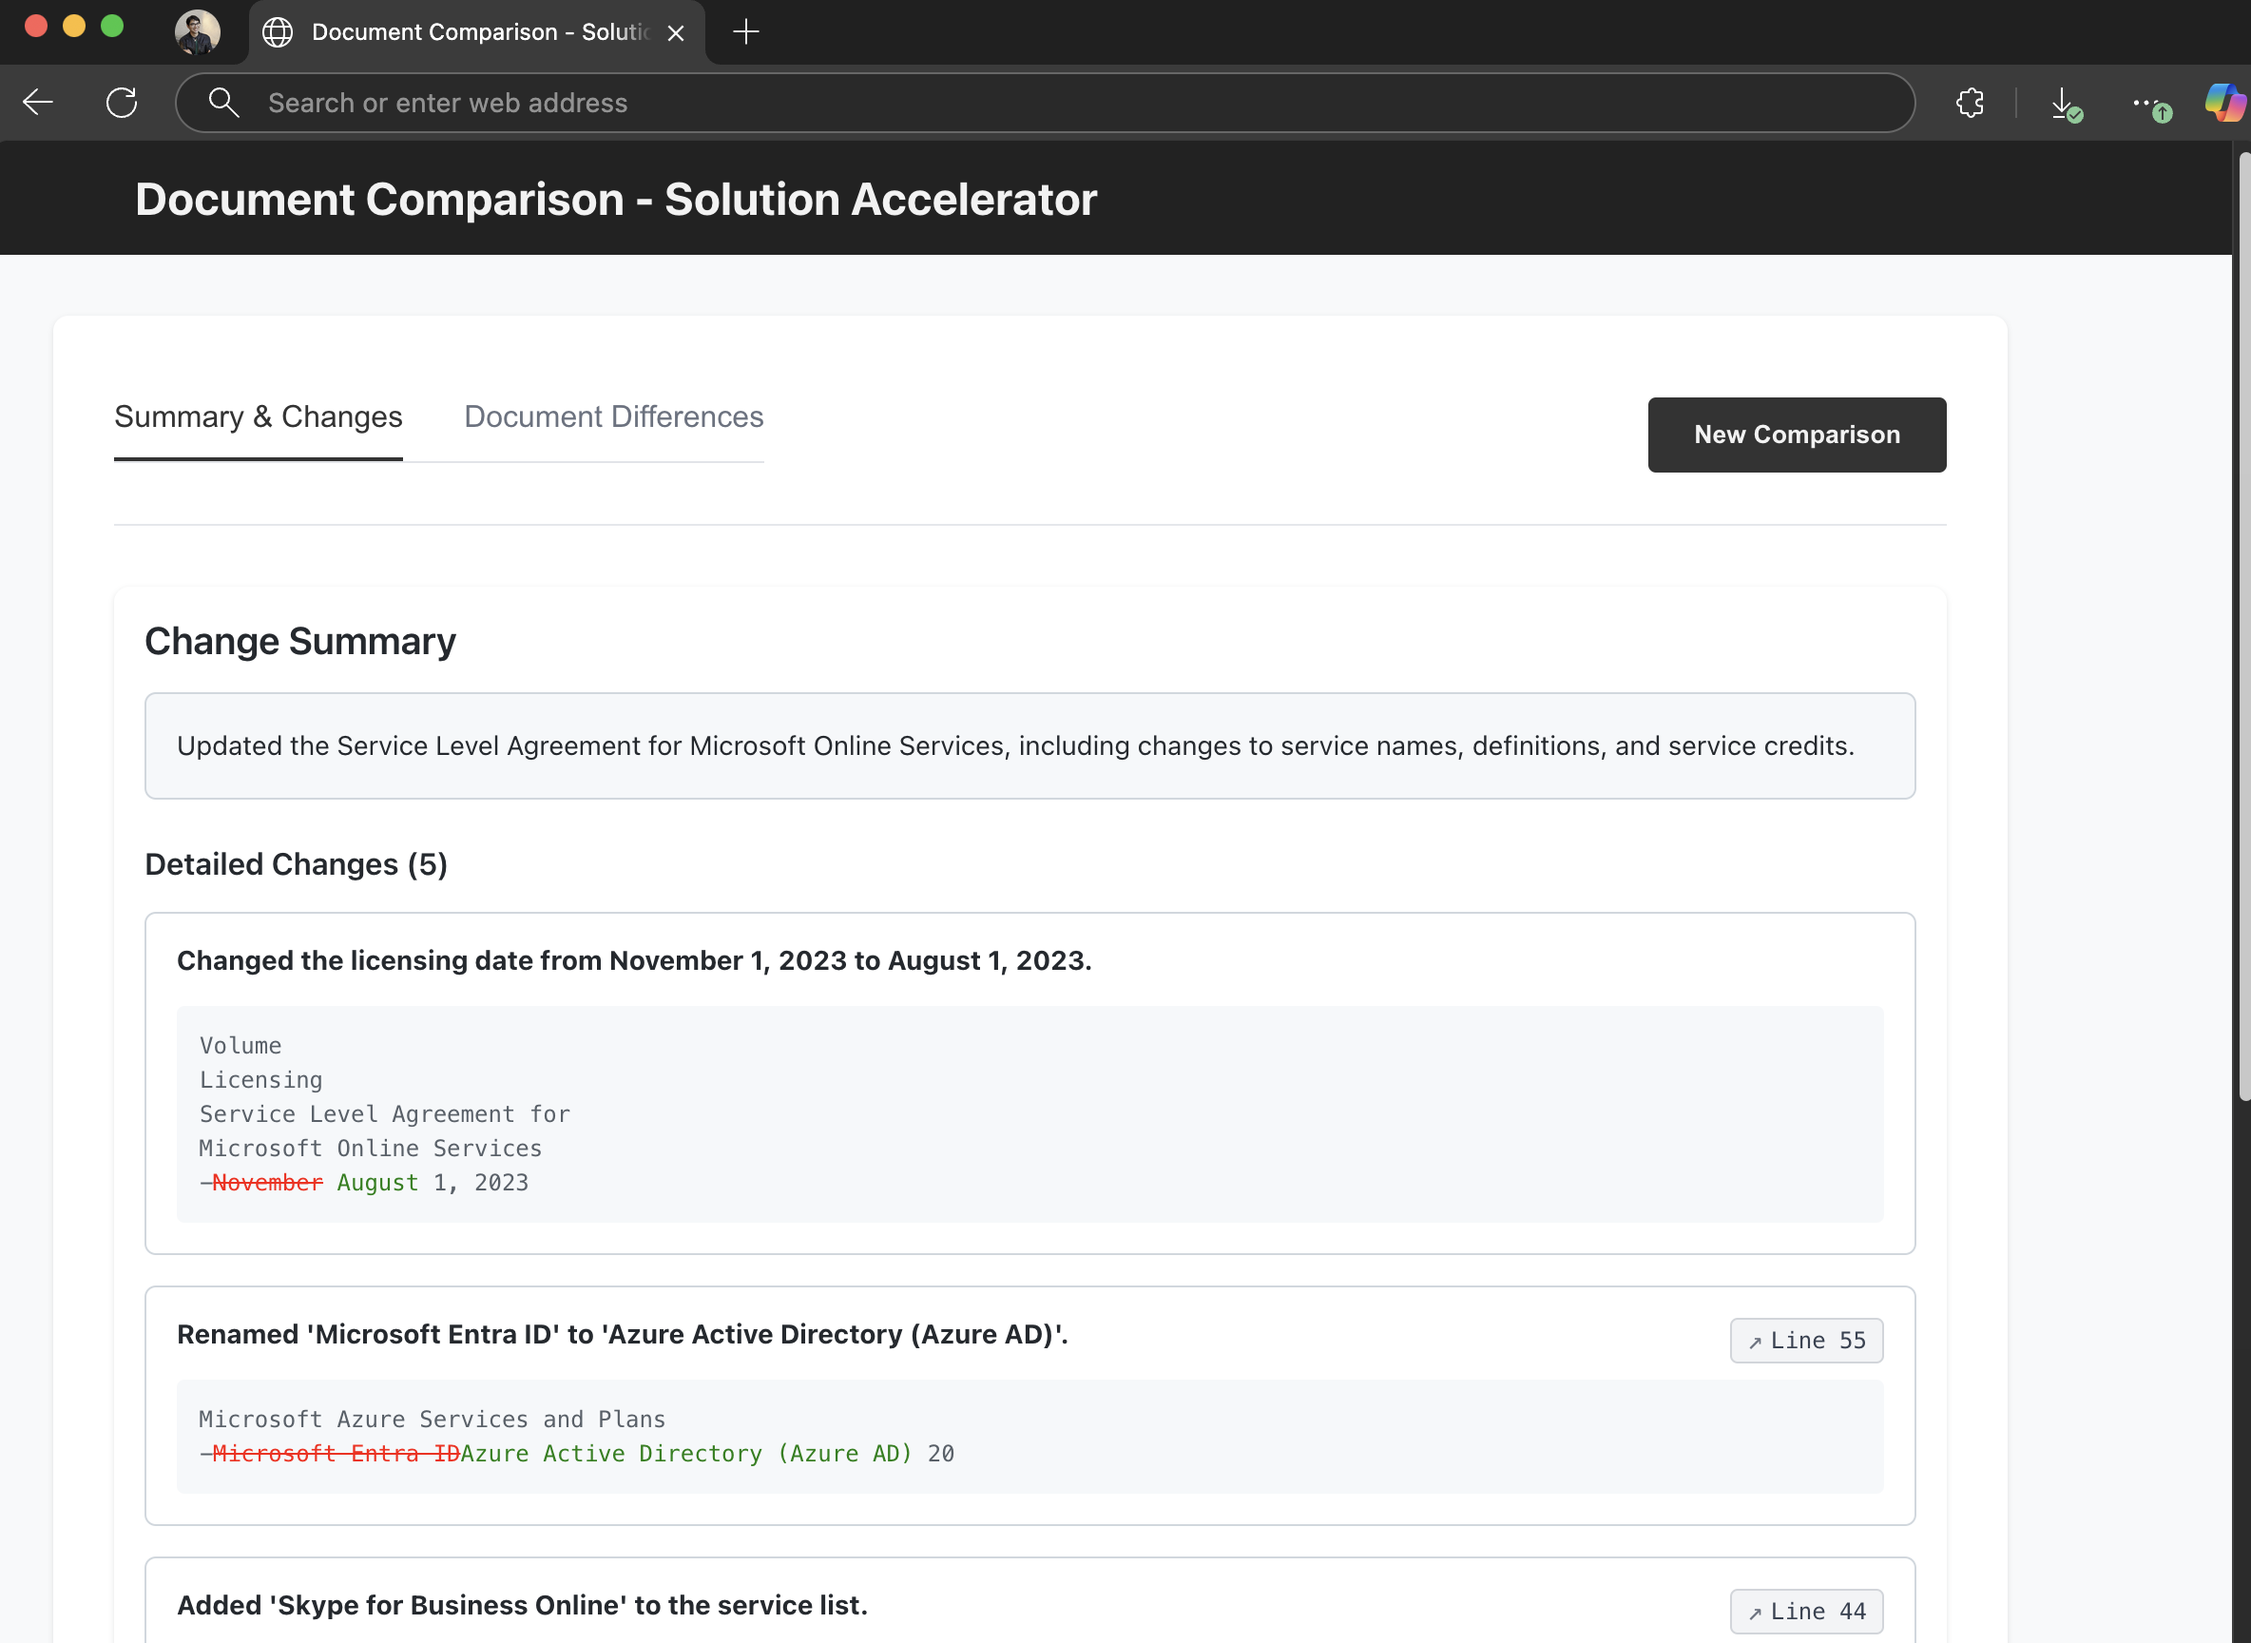
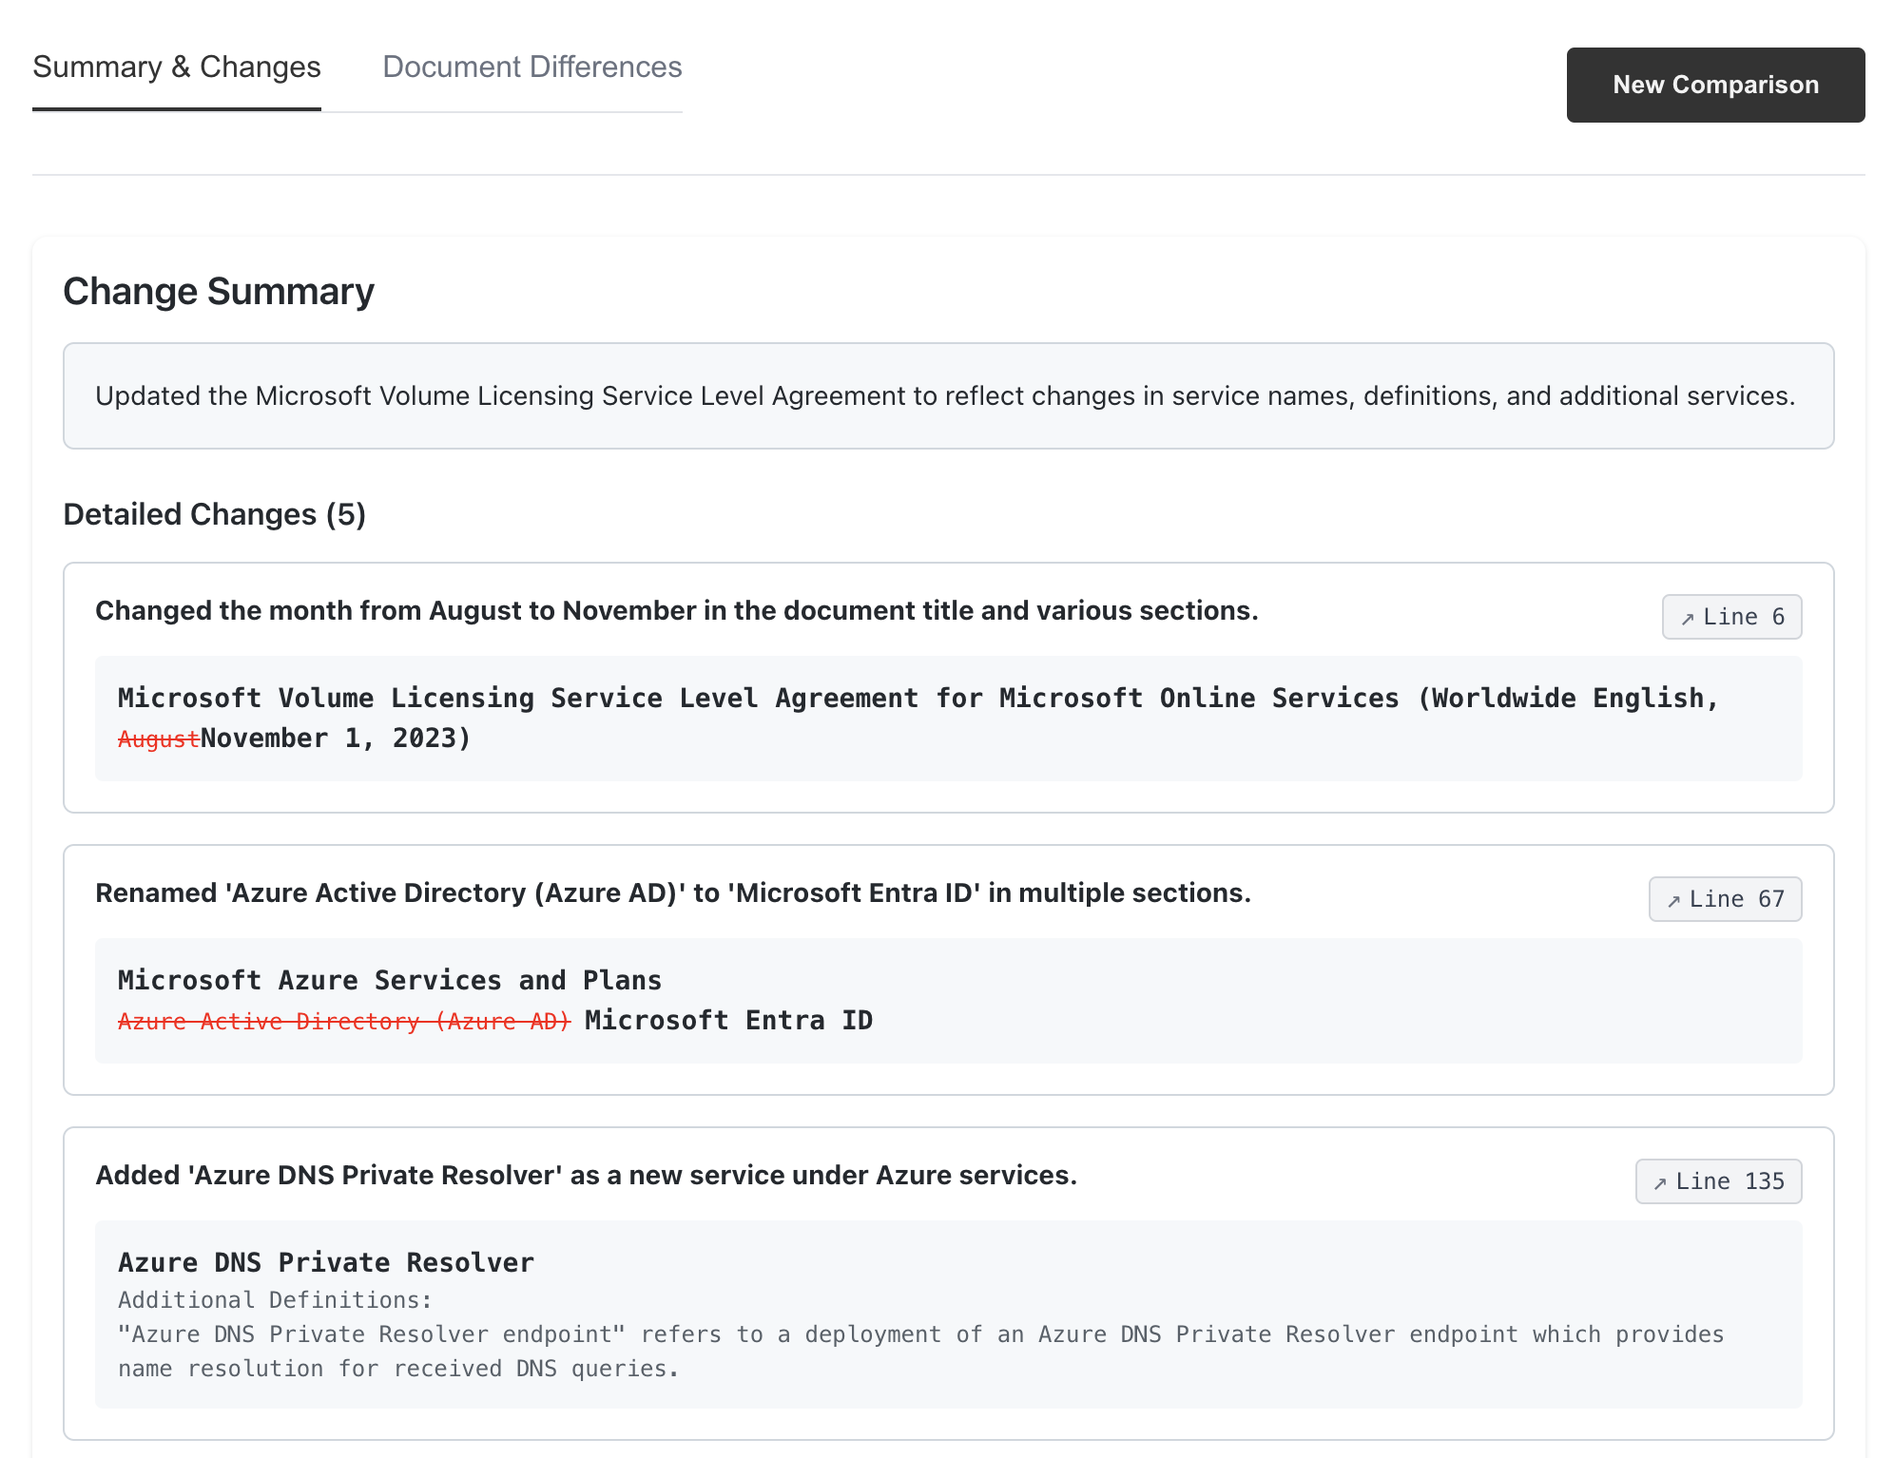
feat: cleanup

diff --git a/frontend/src/App.tsx b/frontend/src/App.tsx
@@ -364,12 +364,12 @@ const ChangelogViewer: React.FC<{
 // Add demo mode functionality and UI elements
 const DEMO_FILES = {
   source: {
-    url: 'https://www.microsoft.com/licensing/docs/documents/download/OnlineSvcsConsolidatedSLA(WW)(English)(November2023)(CR).docx',
-    name: 'MS SLA November 2023'
-  },
-  target: {
     url: 'https://www.microsoft.com/licensing/docs/documents/download/OnlineSvcsConsolidatedSLA(WW)(English)(August2023)(CR).docx',
     name: 'MS SLA August 2023'
+  },
+  target: {
+    url: 'https://www.microsoft.com/licensing/docs/documents/download/OnlineSvcsConsolidatedSLA(WW)(English)(November2023)(CR).docx',
+    name: 'MS SLA November 2023'
   }
 };
 

diff --git a/tests/test_conversion.py b/tests/test_conversion.py
@@ -1,186 +1,125 @@
+from typing import Generator
 import pytest
-from unittest.mock import Mock, patch, mock_open
+from unittest.mock import Mock, patch
 from fastapi import HTTPException
+from azure.core.exceptions import ServiceRequestError
 from app.services.conversion import (
-    convert_to_text,  # Changed from convert_to_html
-    _convert_with_pandoc,
-    _convert_with_azure_di,
+    convert_to_text,
     cleanup_temp_files,
     ConversionError
 )
-from app.core.config import settings  # Add settings import
-import subprocess
-import os
+from pathlib import Path
 import tempfile
-import shutil  # Add shutil for robust file operations
 
 @pytest.fixture
-def sample_docx():
+def sample_docx() -> Generator[str, None, None]:
     """Create a temporary DOCX file for testing"""
-    with tempfile.NamedTemporaryFile(suffix='.docx', delete=False) as tmp:
-        tmp.write(b"Sample DOCX content")
-        return tmp.name
+    tmp_path = Path(tempfile.mkdtemp()) / "test.docx"
+    tmp_path.write_bytes(b"Sample DOCX content")
+    yield str(tmp_path)
+    tmp_path.unlink(missing_ok=True)
 
 @pytest.fixture
-def mock_document_analysis_client():
+def mock_document_intelligence_client() -> Mock:
     """Mock Azure Document Intelligence client"""
-    class MockResult:
-        class MockPage:
-            class MockLine:
-                def __init__(self, content):
-                    self.content = content
-            lines = [MockLine("Test content line 1"), MockLine("Test content line 2")]
-        pages = [MockPage()]
-
-    class MockPoller:
-        def result(self):
-            return MockResult()
-
+    mock_result = Mock()
+    mock_result.content = "Test content line 1\nTest content line 2"
+    
+    mock_poller = Mock()
+    mock_poller.result.return_value = mock_result
+    
     mock_client = Mock()
-    mock_client.begin_analyze_document.return_value = MockPoller()
+    mock_client.begin_analyze_document.return_value = mock_poller
     return mock_client
 
-def test_convert_with_pandoc_success(sample_docx):
-    """Test successful Pandoc conversion"""
-    with patch('subprocess.run') as mock_run:
-        mock_run.return_value.stdout = "Converted text"  # Changed from HTML
-        result = _convert_with_pandoc(sample_docx)
-        assert "Converted text" in result  # Changed assertion
-        mock_run.assert_called_once()
-
-def test_convert_with_pandoc_failure(sample_docx):
-    """Test Pandoc conversion failure"""
-    with patch('subprocess.run') as mock_run:
-        mock_run.side_effect = subprocess.CalledProcessError(1, 'pandoc', stderr=b'Conversion failed')
-        with pytest.raises(ConversionError) as exc_info:
-            _convert_with_pandoc(sample_docx)
-        assert 'Pandoc conversion failed' in str(exc_info.value)
-
-def test_convert_with_azure_di_success(sample_docx, mock_document_analysis_client):
-    """Test successful Azure Document Intelligence conversion"""
-    with patch('app.services.conversion.settings') as mock_settings, \
-         patch('app.services.conversion.DocumentAnalysisClient') as mock_client_class:
-        mock_settings.AZURE_DOC_INTELLIGENCE_ENDPOINT = 'https://test.azure.com'
-        mock_settings.AZURE_DOC_INTELLIGENCE_KEY = 'test-key'
-        mock_client_class.return_value = mock_document_analysis_client
+def test_convert_to_text_success(sample_docx: str, mock_document_intelligence_client: Mock) -> None:
+    """Test successful document conversion"""
+    with patch('app.services.conversion.DocumentIntelligenceClient') as mock_client_class:
+        mock_client_class.return_value = mock_document_intelligence_client
         
-        result = _convert_with_azure_di(sample_docx)
-        # Remove HTML assertions, check for plain text
-        assert 'Test content line 1' in result
-        assert 'Test content line 2' in result
+        result = convert_to_text(sample_docx)
+        assert "Test content line 1" in result
+        assert "Test content line 2" in result
+        mock_document_intelligence_client.begin_analyze_document.assert_called_once()
 
-def test_convert_with_azure_di_missing_credentials(sample_docx):
-    """Test Azure DI conversion with missing credentials"""
-    with patch('app.services.conversion.settings', autospec=True) as mock_settings:
-        # Explicitly set credentials to None
+@pytest.mark.parametrize("error,expected_message", [
+    (ServiceRequestError("Connection error"), "Connection error"),
+    (ValueError("Invalid input"), "Invalid input"),
+    (Exception("Unexpected error"), "Unexpected error"),
+])
+def test_convert_to_text_errors(
+    sample_docx: str,
+    error: Exception,
+    expected_message: str
+) -> None:
+    """Test various conversion error scenarios"""
+    with patch('app.services.conversion.DocumentIntelligenceClient') as mock_client_class:
+        mock_client_class.side_effect = error
+        with pytest.raises(HTTPException) as exc_info:
+            convert_to_text(sample_docx)
+        assert expected_message in str(exc_info.value.detail)
+        assert exc_info.value.status_code == 500
+
+def test_convert_to_text_missing_credentials(sample_docx: str) -> None:
+    """Test conversion with missing Azure credentials"""
+    with patch('app.services.conversion.settings') as mock_settings:
         mock_settings.AZURE_DOC_INTELLIGENCE_ENDPOINT = None
         mock_settings.AZURE_DOC_INTELLIGENCE_KEY = None
         
         with pytest.raises(HTTPException) as exc_info:
-            _convert_with_azure_di(sample_docx)
-        
-        assert exc_info.value.status_code == 500
+            convert_to_text(sample_docx)
         assert "credentials not configured" in str(exc_info.value.detail).lower()
-
-def test_convert_with_azure_di_failure(sample_docx):
-    """Test Azure DI conversion failure"""
-    error_message = "Azure DI failed"
-    with patch('app.services.conversion.settings') as mock_settings, \
-         patch('app.services.conversion.DocumentAnalysisClient') as mock_client:
-        # Configure mock settings
-        mock_settings.AZURE_DOC_INTELLIGENCE_ENDPOINT = 'https://test.azure.com'
-        mock_settings.AZURE_DOC_INTELLIGENCE_KEY = 'test-key'
-        mock_client.side_effect = Exception(error_message)
-        
-        with pytest.raises(HTTPException) as exc_info:
-            _convert_with_azure_di(sample_docx)
         assert exc_info.value.status_code == 500
-        assert error_message in str(exc_info.value.detail)
 
-def test_convert_to_text_pandoc_success(sample_docx):  # Changed from test_convert_to_html_pandoc_success
-    """Test successful conversion using Pandoc"""
-    with patch('app.services.conversion._convert_with_pandoc') as mock_pandoc:
-        mock_pandoc.return_value = "Converted text"  # Changed from HTML
-        result = convert_to_text(sample_docx)  # Changed from convert_to_html
-        assert result == "Converted text"
-        mock_pandoc.assert_called_once_with(sample_docx)
-
-def test_convert_to_text_fallback_to_azure(sample_docx):  # Renamed function
-    """Test fallback to Azure DI when Pandoc fails"""
-    with patch('app.services.conversion._convert_with_pandoc') as mock_pandoc:
-        with patch('app.services.conversion._convert_with_azure_di') as mock_azure:
-            mock_pandoc.side_effect = ConversionError("Pandoc failed")
-            mock_azure.return_value = "Azure Success Text"  # Changed from HTML
-            
-            result = convert_to_text(sample_docx)
-            assert result == "Azure Success Text"
-            mock_pandoc.assert_called_once()
-            mock_azure.assert_called_once()
-
-def test_cleanup_temp_files():
+def test_cleanup_temp_files(tmp_path: Path) -> None:
     """Test temporary file cleanup"""
-    test_dir = tempfile.mkdtemp()
     test_files = ['test1.tmp', 'test2.tmp']
     
     # Create test files
     for file in test_files:
-        file_path = os.path.join(test_dir, file)
-        with open(file_path, 'w') as f:
-            f.write('test')
+        (tmp_path / file).write_text('test')
     
-    try:
-        with patch('app.services.conversion.settings') as mock_settings:
-            mock_settings.TEMP_DIR = test_dir
-            cleanup_temp_files()
-            # Verify files were deleted
-            remaining_files = os.listdir(test_dir)
-            assert len(remaining_files) == 0
-    finally:
-        # Ensure cleanup
-        shutil.rmtree(test_dir, ignore_errors=True)
-
-def test_cleanup_temp_files_handling_errors():
-    """Test cleanup error handling"""
-    with patch('os.listdir') as mock_listdir, \
-         patch('os.path.isfile') as mock_isfile, \
-         patch('os.unlink') as mock_unlink:
+    with patch('app.services.conversion.settings') as mock_settings:
+        mock_settings.TEMP_DIR = str(tmp_path)
+        cleanup_temp_files()
         
-        mock_listdir.return_value = ['test.tmp']
-        mock_isfile.return_value = True
-        mock_unlink.side_effect = OSError("Permission denied")
+        # Verify cleanup
+        remaining_files = list(tmp_path.glob('*.tmp'))
+        assert len(remaining_files) == 0
+
+@pytest.mark.parametrize("file_content,expected_contains", [
+    (b"Simple text", "Simple text"),
+    (b"<h1>HTML content</h1>", "HTML content"),
+    (b"Complex\nMultiline\nContent", "Complex"),
+])
+def test_convert_with_different_contents(
+    tmp_path: Path,
+    file_content: bytes,
+    expected_contains: str
+) -> None:
+    """Test conversion with different content types"""
+    test_file = tmp_path / "test.docx"
+    test_file.write_bytes(file_content)
+    
+    with patch('app.services.conversion.DocumentIntelligenceClient') as mock_client_class:
+        mock_result = Mock()
+        mock_result.content = expected_contains
+        mock_poller = Mock()
+        mock_poller.result.return_value = mock_result
+        mock_client = Mock()
+        mock_client.begin_analyze_document.return_value = mock_poller
+        mock_client_class.return_value = mock_client
+        
+        result = convert_to_text(str(test_file))
+        assert expected_contains in result
+
+def test_cleanup_temp_files_with_errors(tmp_path: Path) -> None:
+    """Test cleanup with file deletion errors"""
+    with patch('app.services.conversion.settings') as mock_settings, \
+         patch('os.remove') as mock_remove:
+        
+        mock_settings.TEMP_DIR = str(tmp_path)
+        mock_remove.side_effect = OSError("Permission denied")
         
         # Should not raise exception
         cleanup_temp_files()
-
-def test_convert_to_html_both_methods_fail(sample_docx):
-    """Test handling when both conversion methods fail"""
-    with patch('app.services.conversion._convert_with_pandoc') as mock_pandoc:
-        with patch('app.services.conversion._convert_with_azure_di') as mock_azure:
-            mock_pandoc.side_effect = ConversionError("Pandoc failed")
-            mock_azure.side_effect = HTTPException(status_code=500, detail="Azure failed")
-            
-            with pytest.raises(HTTPException) as exc_info:
-                convert_to_text(sample_docx)  # Changed from convert_to_html
-            assert exc_info.value.status_code == 500
-
-@pytest.mark.parametrize("file_content", [
-    b"Simple text",
-    b"<h1>HTML content</h1>",
-    b"Complex\nMultiline\nContent",
-    b""  # Empty file
-])
-def test_convert_with_different_content_types(file_content):
-    """Test conversion with different types of content"""
-    with tempfile.NamedTemporaryFile(suffix='.docx', delete=False) as tmp:
-        tmp.write(file_content)
-        tmp.flush()
-        
-        with patch('subprocess.run') as mock_run:
-            mock_run.return_value.stdout = "Converted HTML"
-            with patch('builtins.open', mock_open(read_data='<html>Converted</html>')):
-                result = convert_to_text(tmp.name)  # Changed from convert_to_html
-                assert result is not None
-                assert isinstance(result, str)
-
-if __name__ == "__main__":
-    pytest.main([__file__])

diff --git a/app/main.py b/app/main.py
@@ -1,8 +1,10 @@
 from fastapi import FastAPI, HTTPException
 from fastapi.middleware.cors import CORSMiddleware
-from fastapi.responses import JSONResponse
+from fastapi.responses import JSONResponse, FileResponse
+from fastapi.staticfiles import StaticFiles
 from app.routers import compare
 from app.core.config import settings
+import os
 
 app = FastAPI(
     title="Document Comparison API",
@@ -18,6 +20,15 @@ app.add_middleware(
     allow_methods=["*"],
     allow_headers=["*"],
 )
+
+# Mount the static files directory (if it exists)
+if os.path.exists("/app/static/assets"):
+    app.mount("/assets", StaticFiles(directory="/app/static/assets"), name="static")
+
+
+@app.get("/")
+async def read_root():
+    return FileResponse("/app/static/index.html")
 
 # Include routers
 app.include_router(compare.router, prefix="/api/v1", tags=["comparison"])
